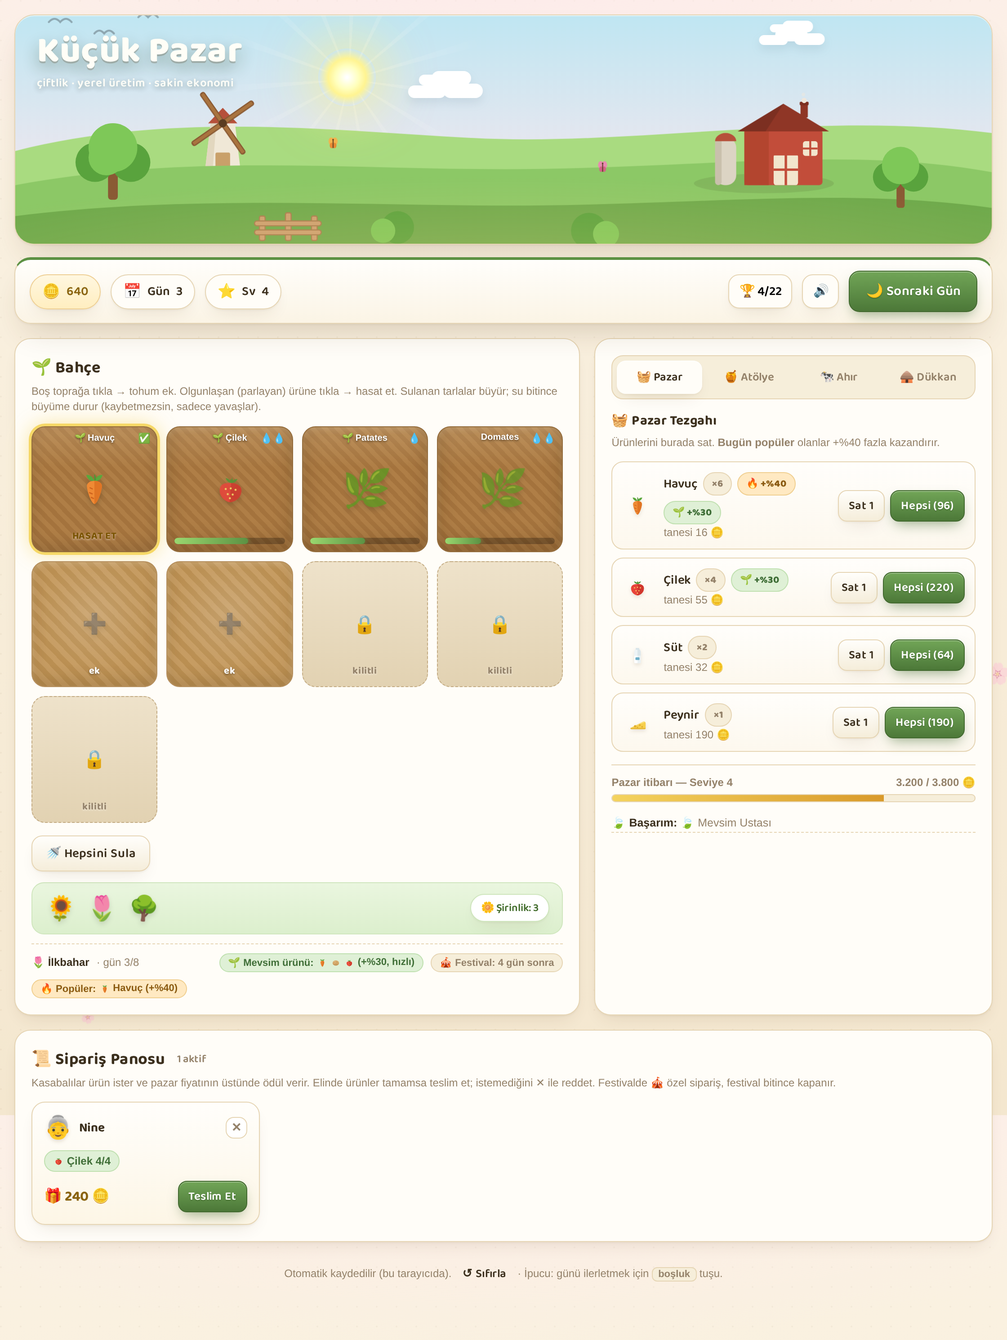
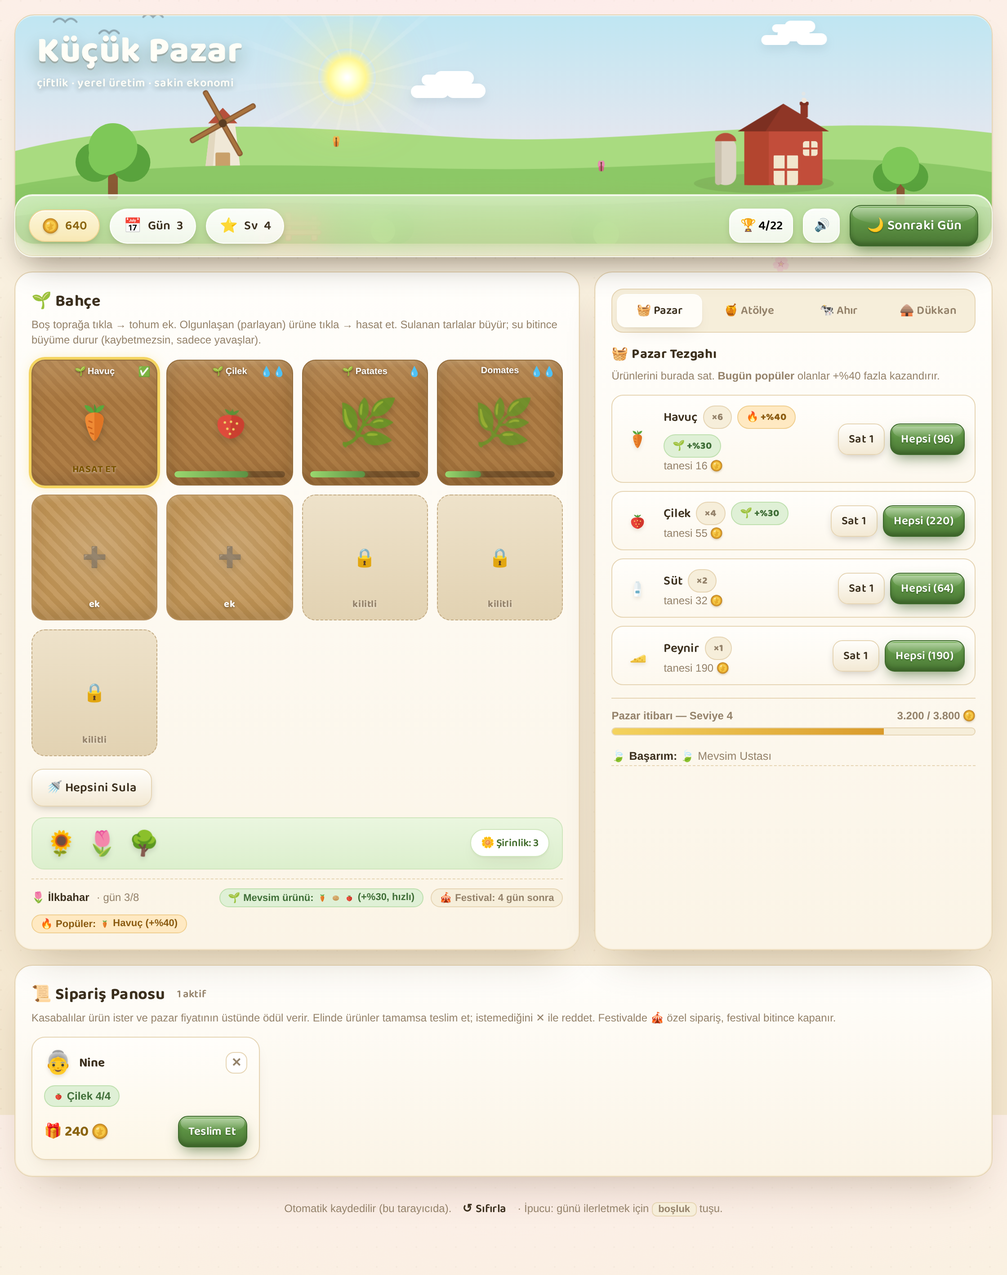
Premium game-UI pass: glass HUD, glossy buttons, gold coin, richer panels
Move the interface away from a web-layout feel toward a premium casual-game HUD:
- The control bar becomes a glassmorphism HUD that floats over the hero scene
  (negative margin overlap + backdrop-blur/saturate), so the blurred landscape
  shows through; gold hairline trim and glossy stat pods.
- Buttons get a glossy 3D "candy" treatment: top-gloss highlight (primary::before),
  layered inner/outer shadows, and a springy press (cubic-bezier overshoot).
- Panels become dimensional plaques with a faint gold inset hairline and deeper
  layered shadow.
- Handcrafted gold-coin SVG replaces the coin emoji in the always-visible spots
  (HUD balance, market prices, order rewards, level bar).

Pure presentation (one textContent→innerHTML change for the level readout).
Verified with Playwright: both builds render with no console errors; full
gameplay regression re-passed.

Claude-Session: https://claude.ai/code/session_01JLhaX9PDeoKavNPVgfyLYf

Changed region(s): [[0.0, 0.0, 1.0, 0.6206], [0.0, 0.5585, 1.0, 0.9619], [0.75, 0.0, 0.8125, 0.031]]

diff --git a/cozy-farm-market/index.html b/cozy-farm-market/index.html
@@ -64,7 +64,7 @@
 
   /* ===== Pastoral hero scene ===== */
   .hero{
-    position:relative; height:256px; margin-bottom:14px;
+    position:relative; height:256px; margin-bottom:0;
     border-radius:22px; overflow:hidden;
     background:linear-gradient(180deg, var(--sky1) 0%, var(--sky2) 82%);
     border:1px solid var(--line);
@@ -137,13 +137,13 @@
   /* Top bar */
   .top{
     display:flex; align-items:center; gap:11px; flex-wrap:wrap;
-    background:linear-gradient(180deg,#fffefb,#fbf4e5);
-    border:1px solid var(--line);
-    border-top:3px solid var(--green);
-    border-radius:var(--r);
-    box-shadow:inset 0 1px 0 rgba(255,255,255,.7), var(--shadow);
-    padding:12px 16px;
-    position:sticky; top:10px; z-index:20;
+    background:linear-gradient(180deg, rgba(255,255,255,.6), rgba(255,251,242,.46));
+    -webkit-backdrop-filter:blur(18px) saturate(1.5); backdrop-filter:blur(18px) saturate(1.5);
+    border:1px solid rgba(255,255,255,.7);
+    border-radius:20px;
+    box-shadow:0 16px 36px -12px rgba(38,26,8,.42), inset 0 1px 0 rgba(255,255,255,.85), inset 0 0 0 1px rgba(214,150,40,.12);
+    padding:11px 15px;
+    position:sticky; top:12px; z-index:30; margin-top:-56px;
   }
   .brand{ display:flex; align-items:center; gap:11px; margin-right:6px; }
   .brand .logo{ font-size:30px; filter:drop-shadow(0 2px 2px rgba(70,45,10,.16)); }
@@ -152,43 +152,48 @@
   .grow{ flex:1; }
   .stat{
     display:flex; align-items:center; gap:7px;
-    background:var(--card);
-    border:1px solid var(--line);
+    background:linear-gradient(180deg, rgba(255,255,255,.94), rgba(255,255,255,.8));
+    border:1px solid rgba(255,255,255,.9);
     border-radius:999px;
-    padding:6px 13px;
+    padding:6px 14px;
     font-family:var(--display); font-weight:600; font-size:14px; white-space:nowrap;
-    font-variant-numeric:tabular-nums;
-    box-shadow:var(--shadow2);
+    font-variant-numeric:tabular-nums; color:var(--ink);
+    box-shadow:0 3px 9px -3px rgba(38,26,8,.28), inset 0 1px 0 rgba(255,255,255,.95);
   }
-  .stat .ico{ font-size:16px; }
-  .stat.coins{ background:linear-gradient(180deg,#fff7e0,#ffeec0); border-color:#eecf94; color:#8a6410; }
-  .stat.coins.bump{ animation:coinbump .4s ease; }
-  @keyframes coinbump{ 0%,100%{transform:scale(1)} 40%{transform:scale(1.13)} }
+  .stat .ico{ font-size:16px; display:inline-flex; }
+  .stat.coins{ background:linear-gradient(180deg, rgba(255,247,222,.96), rgba(255,234,184,.9)); border-color:#f0d492; color:#8a6410; }
+  .stat.coins.bump{ animation:coinbump .4s cubic-bezier(.34,1.6,.64,1); }
+  @keyframes coinbump{ 0%,100%{transform:scale(1)} 40%{transform:scale(1.16)} }
   .iconbtn{
-    cursor:pointer; border:1px solid var(--line); background:var(--card);
-    border-radius:12px; padding:7px 11px; font-family:var(--display); font-weight:600; font-size:14px; white-space:nowrap;
-    box-shadow:var(--shadow2); transition:transform .05s ease, filter .15s ease;
+    cursor:pointer; border:1px solid rgba(255,255,255,.9);
+    background:linear-gradient(180deg, rgba(255,255,255,.94), rgba(255,255,255,.8));
+    border-radius:13px; padding:7px 11px; font-family:var(--display); font-weight:600; font-size:14px; white-space:nowrap;
+    box-shadow:0 3px 9px -3px rgba(38,26,8,.28), inset 0 1px 0 rgba(255,255,255,.95);
+    transition:transform .08s cubic-bezier(.34,1.6,.64,1), filter .15s ease;
   }
-  .iconbtn:hover{ filter:brightness(1.03); }
-  .iconbtn:active{ transform:translateY(1px); }
+  .iconbtn:hover{ filter:brightness(1.04); }
+  .iconbtn:active{ transform:translateY(1px) scale(.96); }
   .btn{
-    cursor:pointer; border:1px solid var(--line);
-    background:linear-gradient(180deg,#fffefb,#f5edda); color:var(--ink);
-    border-radius:12px; padding:8px 15px; font-family:var(--display); font-weight:600; font-size:14px; letter-spacing:.2px;
-    box-shadow:inset 0 1px 0 rgba(255,255,255,.65), var(--shadow2);
-    transition:transform .05s ease, filter .15s ease, background .15s ease;
+    cursor:pointer; position:relative; border:1px solid var(--line);
+    background:linear-gradient(180deg,#fffefb,#f3e9d4); color:var(--ink);
+    border-radius:13px; padding:9px 16px; font-family:var(--display); font-weight:600; font-size:14px; letter-spacing:.2px;
+    box-shadow:inset 0 1px 0 rgba(255,255,255,.85), 0 4px 10px -4px rgba(38,26,8,.3);
+    transition:transform .09s cubic-bezier(.34,1.7,.5,1), filter .15s ease, box-shadow .15s ease;
   }
   .btn:hover{ filter:brightness(1.03); }
-  .btn:active{ transform:translateY(1px); }
+  .btn:active{ transform:translateY(2px) scale(.96); }
   .btn.primary{
-    background:linear-gradient(180deg,#71a557,#4c7838); border:1px solid var(--green-d); color:#fff;
-    text-shadow:0 1px 1px rgba(30,50,15,.28);
-    box-shadow:inset 0 1px 0 rgba(255,255,255,.28), 0 7px 15px -5px rgba(66,105,47,.55);
+    background:linear-gradient(180deg,#7cb35f 0%,#5c9143 46%,#4a7734 100%);
+    border:1px solid #3e6a2c; color:#fff; text-shadow:0 1px 1px rgba(20,40,10,.4);
+    box-shadow:0 7px 16px -5px rgba(58,96,38,.7), inset 0 1px 0 rgba(255,255,255,.45), inset 0 -3px 4px rgba(28,52,14,.32);
   }
-  .btn.primary:hover{ filter:brightness(1.05); }
+  .btn.primary::before{ content:""; position:absolute; left:2px; right:2px; top:2px; height:44%; border-radius:11px 11px 60% 60%/11px 11px 22px 22px; background:linear-gradient(180deg, rgba(255,255,255,.42), rgba(255,255,255,0)); pointer-events:none; }
+  .btn.primary:hover{ filter:brightness(1.06); box-shadow:0 9px 20px -5px rgba(58,96,38,.8), inset 0 1px 0 rgba(255,255,255,.5), 0 0 0 3px rgba(120,180,90,.25); }
+  .btn.primary:active{ transform:translateY(2px) scale(.96); box-shadow:0 3px 8px -3px rgba(58,96,38,.6), inset 0 2px 4px rgba(28,52,14,.4); }
   .btn.day{ font-size:15px; padding:10px 18px; }
-  .btn.small{ padding:6px 11px; font-size:13px; border-radius:10px; }
+  .btn.small{ padding:6px 11px; font-size:13px; border-radius:11px; }
   .btn:disabled{ opacity:.42; cursor:not-allowed; box-shadow:none; }
+  .btn:disabled::before{ display:none; }
   .btn.ghost{ background:transparent; box-shadow:none; border-color:transparent; }
   .btn.ghost:hover{ background:var(--soft); }
 
@@ -197,10 +202,10 @@
   @media (max-width: 900px){ .layout{ grid-template-columns:1fr; } .top{ position:static; } }
 
   .panel{
-    background:var(--card);
+    background:linear-gradient(180deg,#fffefb,#fbf4e6);
     border:1px solid var(--line);
-    border-radius:var(--r);
-    box-shadow:inset 0 1px 0 rgba(255,255,255,.7), var(--shadow2);
+    border-radius:20px;
+    box-shadow:0 22px 46px -22px rgba(78,52,16,.32), inset 0 1px 0 rgba(255,255,255,.92), inset 0 0 0 1px rgba(214,150,40,.07);
     padding:18px;
   }
   .panel h2{ font-family:var(--display); margin:0 0 4px; font-size:18px; font-weight:700; letter-spacing:.2px; display:flex; align-items:center; gap:8px; }
@@ -248,6 +253,7 @@
   .plot .emoji.sway{ animation:sway 3.6s ease-in-out infinite; transform-origin:50% 90%; }
   .plot.empty .emoji{ font-size:22px; opacity:.5; }
   .pico{ width:1em; height:1em; display:inline-block; vertical-align:-.15em; flex:none; }
+  .coin{ width:1.15em; height:1.15em; display:inline-block; vertical-align:-.24em; filter:drop-shadow(0 1px 1px rgba(120,80,10,.3)); }
   .plot .cropname{ position:absolute; top:6px; left:0; right:0; text-align:center; font-size:10px; font-weight:800; color:#fff; text-shadow:0 1px 2px rgba(0,0,0,.5); }
   .plot .water{ position:absolute; top:6px; right:7px; font-size:11px; }
   .plot .bar{ position:absolute; left:8px; right:8px; bottom:8px; height:7px; background:rgba(0,0,0,.25); border-radius:999px; overflow:hidden; }
@@ -486,7 +492,7 @@
   </div>
 
   <div class="top">
-    <div class="stat coins" id="coinStat"><span class="ico">🪙</span><span id="coins">0</span></div>
+    <div class="stat coins" id="coinStat"><span class="ico"><svg class="coin" viewBox="0 0 24 24" aria-hidden="true"><circle cx="12" cy="12" r="10.5" fill="#d99a2b"/><circle cx="12" cy="12" r="10.5" fill="none" stroke="#b87f1e" stroke-width="1"/><circle cx="12" cy="12" r="8" fill="#f6c948"/><circle cx="12" cy="12" r="8" fill="none" stroke="#e6ad2e" stroke-width="1"/><path d="M12 6.6l1.5 3.4 3.7.35-2.8 2.5.85 3.65L12 18l-3.2 1.95.85-3.65-2.8-2.5 3.7-.35z" fill="#e6ad2e"/><ellipse cx="8.6" cy="8.2" rx="2.4" ry="1.5" fill="#fff" opacity=".45" transform="rotate(-32 8.6 8.2)"/></svg></span><span id="coins">0</span></div>
     <div class="stat"><span class="ico">📅</span>Gün <span id="day">1</span></div>
     <div class="stat"><span class="ico">⭐</span>Sv <span id="level">1</span></div>
     <div class="grow"></div>
@@ -629,6 +635,7 @@
    scarf:`<path d="M13 13c0-2.6 3-4.6 7-4.6s7 2 7 4.6v2.4c0-2.6-3-4.1-7-4.1s-7 1.5-7 4.1z" fill="#c94f6a"/><rect x="13" y="13" width="5.4" height="19" rx="1.7" fill="#b23a5a"/><rect x="21.6" y="13" width="5.4" height="16" rx="1.7" fill="#c94f6a"/><g stroke="#9c2f4c" stroke-width=".9" opacity=".4" stroke-linecap="round"><path d="M13.6 18h4.2M13.6 22h4.2M13.6 26h4.2M22.2 18h4.2M22.2 22.5h4.2"/></g><g fill="#e79db0"><rect x="13.4" y="31.6" width="1.4" height="3" rx=".7"/><rect x="15.7" y="31.6" width="1.4" height="3" rx=".7"/><rect x="22" y="28.6" width="1.4" height="3" rx=".7"/><rect x="24.3" y="28.6" width="1.4" height="3" rx=".7"/></g>`,
   };
   function iconHTML(id){ return SVGICON[id] ? '<svg class="pico" viewBox="0 0 40 40" aria-hidden="true">'+SVGICON[id]+'</svg>' : itemEmoji(id); }
+  const COIN = '<svg class="coin" viewBox="0 0 24 24" aria-hidden="true"><circle cx="12" cy="12" r="10.5" fill="#d99a2b"/><circle cx="12" cy="12" r="10.5" fill="none" stroke="#b87f1e" stroke-width="1"/><circle cx="12" cy="12" r="8" fill="#f6c948"/><circle cx="12" cy="12" r="8" fill="none" stroke="#e6ad2e" stroke-width="1"/><path d="M12 6.6l1.5 3.4 3.7.35-2.8 2.5.85 3.65L12 18l-3.2 1.95.85-3.65-2.8-2.5 3.7-.35z" fill="#e6ad2e"/><ellipse cx="8.6" cy="8.2" rx="2.4" ry="1.5" fill="#fff" opacity=".45" transform="rotate(-32 8.6 8.2)"/></svg>';
 
   const SEASONS = [
     { name:"İlkbahar", emoji:"🌷", p:"🌸" },
@@ -1273,7 +1280,7 @@
         '<span class="oname">'+o.cust.name+'</span>'+festBadge+
         '<button class="odismiss" data-oact="dismiss" data-oid="'+o.id+'" title="Reddet" aria-label="Reddet">✕</button></div>'+
         '<div class="oitems">'+items+'</div>'+
-        '<div class="ofoot"><span class="oreward">🎁 '+fmt(o.reward)+' 🪙</span>'+
+        '<div class="ofoot"><span class="oreward">🎁 '+fmt(o.reward)+' '+COIN+'</span>'+
         '<button class="btn small primary" data-oact="fill" data-oid="'+o.id+'" '+(can?"":"disabled")+'>Teslim Et</button></div></div>';
     }).join("");
     if(!S.orders.length) cards = '<div class="emptxt">Şu an sipariş yok. Yeni müşteriler zamanla uğrar — günü ilerlet 📜</div>';
@@ -1328,7 +1335,7 @@
     else{
       const pct = Math.max(0,Math.min(100, (S.totalEarned-cur)/(nxt-cur)*100));
       $("lvlFill").style.width = pct+"%";
-      $("lvlText").textContent = fmt(S.totalEarned)+" / "+fmt(nxt)+" 🪙";
+      $("lvlText").innerHTML = fmt(S.totalEarned)+" / "+fmt(nxt)+" "+COIN;
     }
   }
 
@@ -1371,7 +1378,7 @@
     const festChip = festivalActive() ? '<span class="chip fest">🎪 +%50</span>' : "";
     return '<div class="row"><div class="rico">'+iconHTML(id)+'</div>'+
       '<div class="rmain"><div class="rtitle">'+itemName(id)+' <span class="chip qty">×'+have+'</span> '+pop+seasonChip+festChip+'</div>'+
-      '<div class="rmeta">tanesi '+fmt(unit)+' 🪙</div></div>'+
+      '<div class="rmeta">tanesi '+fmt(unit)+' '+COIN+'</div></div>'+
       '<div class="ract">'+
         '<button class="btn small" data-act="sell1" data-id="'+id+'">Sat 1</button>'+
         '<button class="btn small primary" data-act="sellAll" data-id="'+id+'">Hepsi ('+fmt(unit*have)+')</button>'+

diff --git a/cozy-farm-market/sandbox.html b/cozy-farm-market/sandbox.html
@@ -64,7 +64,7 @@
 
   /* ===== Pastoral hero scene ===== */
   .hero{
-    position:relative; height:256px; margin-bottom:14px;
+    position:relative; height:256px; margin-bottom:0;
     border-radius:22px; overflow:hidden;
     background:linear-gradient(180deg, var(--sky1) 0%, var(--sky2) 82%);
     border:1px solid var(--line);
@@ -137,13 +137,13 @@
   /* Top bar */
   .top{
     display:flex; align-items:center; gap:11px; flex-wrap:wrap;
-    background:linear-gradient(180deg,#fffefb,#fbf4e5);
-    border:1px solid var(--line);
-    border-top:3px solid var(--green);
-    border-radius:var(--r);
-    box-shadow:inset 0 1px 0 rgba(255,255,255,.7), var(--shadow);
-    padding:12px 16px;
-    position:sticky; top:10px; z-index:20;
+    background:linear-gradient(180deg, rgba(255,255,255,.6), rgba(255,251,242,.46));
+    -webkit-backdrop-filter:blur(18px) saturate(1.5); backdrop-filter:blur(18px) saturate(1.5);
+    border:1px solid rgba(255,255,255,.7);
+    border-radius:20px;
+    box-shadow:0 16px 36px -12px rgba(38,26,8,.42), inset 0 1px 0 rgba(255,255,255,.85), inset 0 0 0 1px rgba(214,150,40,.12);
+    padding:11px 15px;
+    position:sticky; top:12px; z-index:30; margin-top:-56px;
   }
   .brand{ display:flex; align-items:center; gap:11px; margin-right:6px; }
   .brand .logo{ font-size:30px; filter:drop-shadow(0 2px 2px rgba(70,45,10,.16)); }
@@ -152,43 +152,48 @@
   .grow{ flex:1; }
   .stat{
     display:flex; align-items:center; gap:7px;
-    background:var(--card);
-    border:1px solid var(--line);
+    background:linear-gradient(180deg, rgba(255,255,255,.94), rgba(255,255,255,.8));
+    border:1px solid rgba(255,255,255,.9);
     border-radius:999px;
-    padding:6px 13px;
+    padding:6px 14px;
     font-family:var(--display); font-weight:600; font-size:14px; white-space:nowrap;
-    font-variant-numeric:tabular-nums;
-    box-shadow:var(--shadow2);
+    font-variant-numeric:tabular-nums; color:var(--ink);
+    box-shadow:0 3px 9px -3px rgba(38,26,8,.28), inset 0 1px 0 rgba(255,255,255,.95);
   }
-  .stat .ico{ font-size:16px; }
-  .stat.coins{ background:linear-gradient(180deg,#fff7e0,#ffeec0); border-color:#eecf94; color:#8a6410; }
-  .stat.coins.bump{ animation:coinbump .4s ease; }
-  @keyframes coinbump{ 0%,100%{transform:scale(1)} 40%{transform:scale(1.13)} }
+  .stat .ico{ font-size:16px; display:inline-flex; }
+  .stat.coins{ background:linear-gradient(180deg, rgba(255,247,222,.96), rgba(255,234,184,.9)); border-color:#f0d492; color:#8a6410; }
+  .stat.coins.bump{ animation:coinbump .4s cubic-bezier(.34,1.6,.64,1); }
+  @keyframes coinbump{ 0%,100%{transform:scale(1)} 40%{transform:scale(1.16)} }
   .iconbtn{
-    cursor:pointer; border:1px solid var(--line); background:var(--card);
-    border-radius:12px; padding:7px 11px; font-family:var(--display); font-weight:600; font-size:14px; white-space:nowrap;
-    box-shadow:var(--shadow2); transition:transform .05s ease, filter .15s ease;
+    cursor:pointer; border:1px solid rgba(255,255,255,.9);
+    background:linear-gradient(180deg, rgba(255,255,255,.94), rgba(255,255,255,.8));
+    border-radius:13px; padding:7px 11px; font-family:var(--display); font-weight:600; font-size:14px; white-space:nowrap;
+    box-shadow:0 3px 9px -3px rgba(38,26,8,.28), inset 0 1px 0 rgba(255,255,255,.95);
+    transition:transform .08s cubic-bezier(.34,1.6,.64,1), filter .15s ease;
   }
-  .iconbtn:hover{ filter:brightness(1.03); }
-  .iconbtn:active{ transform:translateY(1px); }
+  .iconbtn:hover{ filter:brightness(1.04); }
+  .iconbtn:active{ transform:translateY(1px) scale(.96); }
   .btn{
-    cursor:pointer; border:1px solid var(--line);
-    background:linear-gradient(180deg,#fffefb,#f5edda); color:var(--ink);
-    border-radius:12px; padding:8px 15px; font-family:var(--display); font-weight:600; font-size:14px; letter-spacing:.2px;
-    box-shadow:inset 0 1px 0 rgba(255,255,255,.65), var(--shadow2);
-    transition:transform .05s ease, filter .15s ease, background .15s ease;
+    cursor:pointer; position:relative; border:1px solid var(--line);
+    background:linear-gradient(180deg,#fffefb,#f3e9d4); color:var(--ink);
+    border-radius:13px; padding:9px 16px; font-family:var(--display); font-weight:600; font-size:14px; letter-spacing:.2px;
+    box-shadow:inset 0 1px 0 rgba(255,255,255,.85), 0 4px 10px -4px rgba(38,26,8,.3);
+    transition:transform .09s cubic-bezier(.34,1.7,.5,1), filter .15s ease, box-shadow .15s ease;
   }
   .btn:hover{ filter:brightness(1.03); }
-  .btn:active{ transform:translateY(1px); }
+  .btn:active{ transform:translateY(2px) scale(.96); }
   .btn.primary{
-    background:linear-gradient(180deg,#71a557,#4c7838); border:1px solid var(--green-d); color:#fff;
-    text-shadow:0 1px 1px rgba(30,50,15,.28);
-    box-shadow:inset 0 1px 0 rgba(255,255,255,.28), 0 7px 15px -5px rgba(66,105,47,.55);
+    background:linear-gradient(180deg,#7cb35f 0%,#5c9143 46%,#4a7734 100%);
+    border:1px solid #3e6a2c; color:#fff; text-shadow:0 1px 1px rgba(20,40,10,.4);
+    box-shadow:0 7px 16px -5px rgba(58,96,38,.7), inset 0 1px 0 rgba(255,255,255,.45), inset 0 -3px 4px rgba(28,52,14,.32);
   }
-  .btn.primary:hover{ filter:brightness(1.05); }
+  .btn.primary::before{ content:""; position:absolute; left:2px; right:2px; top:2px; height:44%; border-radius:11px 11px 60% 60%/11px 11px 22px 22px; background:linear-gradient(180deg, rgba(255,255,255,.42), rgba(255,255,255,0)); pointer-events:none; }
+  .btn.primary:hover{ filter:brightness(1.06); box-shadow:0 9px 20px -5px rgba(58,96,38,.8), inset 0 1px 0 rgba(255,255,255,.5), 0 0 0 3px rgba(120,180,90,.25); }
+  .btn.primary:active{ transform:translateY(2px) scale(.96); box-shadow:0 3px 8px -3px rgba(58,96,38,.6), inset 0 2px 4px rgba(28,52,14,.4); }
   .btn.day{ font-size:15px; padding:10px 18px; }
-  .btn.small{ padding:6px 11px; font-size:13px; border-radius:10px; }
+  .btn.small{ padding:6px 11px; font-size:13px; border-radius:11px; }
   .btn:disabled{ opacity:.42; cursor:not-allowed; box-shadow:none; }
+  .btn:disabled::before{ display:none; }
   .btn.ghost{ background:transparent; box-shadow:none; border-color:transparent; }
   .btn.ghost:hover{ background:var(--soft); }
 
@@ -197,10 +202,10 @@
   @media (max-width: 900px){ .layout{ grid-template-columns:1fr; } .top{ position:static; } }
 
   .panel{
-    background:var(--card);
+    background:linear-gradient(180deg,#fffefb,#fbf4e6);
     border:1px solid var(--line);
-    border-radius:var(--r);
-    box-shadow:inset 0 1px 0 rgba(255,255,255,.7), var(--shadow2);
+    border-radius:20px;
+    box-shadow:0 22px 46px -22px rgba(78,52,16,.32), inset 0 1px 0 rgba(255,255,255,.92), inset 0 0 0 1px rgba(214,150,40,.07);
     padding:18px;
   }
   .panel h2{ font-family:var(--display); margin:0 0 4px; font-size:18px; font-weight:700; letter-spacing:.2px; display:flex; align-items:center; gap:8px; }
@@ -248,6 +253,7 @@
   .plot .emoji.sway{ animation:sway 3.6s ease-in-out infinite; transform-origin:50% 90%; }
   .plot.empty .emoji{ font-size:22px; opacity:.5; }
   .pico{ width:1em; height:1em; display:inline-block; vertical-align:-.15em; flex:none; }
+  .coin{ width:1.15em; height:1.15em; display:inline-block; vertical-align:-.24em; filter:drop-shadow(0 1px 1px rgba(120,80,10,.3)); }
   .plot .cropname{ position:absolute; top:6px; left:0; right:0; text-align:center; font-size:10px; font-weight:800; color:#fff; text-shadow:0 1px 2px rgba(0,0,0,.5); }
   .plot .water{ position:absolute; top:6px; right:7px; font-size:11px; }
   .plot .bar{ position:absolute; left:8px; right:8px; bottom:8px; height:7px; background:rgba(0,0,0,.25); border-radius:999px; overflow:hidden; }
@@ -486,7 +492,7 @@
   </div>
 
   <div class="top">
-    <div class="stat coins" id="coinStat"><span class="ico">🪙</span><span id="coins">0</span></div>
+    <div class="stat coins" id="coinStat"><span class="ico"><svg class="coin" viewBox="0 0 24 24" aria-hidden="true"><circle cx="12" cy="12" r="10.5" fill="#d99a2b"/><circle cx="12" cy="12" r="10.5" fill="none" stroke="#b87f1e" stroke-width="1"/><circle cx="12" cy="12" r="8" fill="#f6c948"/><circle cx="12" cy="12" r="8" fill="none" stroke="#e6ad2e" stroke-width="1"/><path d="M12 6.6l1.5 3.4 3.7.35-2.8 2.5.85 3.65L12 18l-3.2 1.95.85-3.65-2.8-2.5 3.7-.35z" fill="#e6ad2e"/><ellipse cx="8.6" cy="8.2" rx="2.4" ry="1.5" fill="#fff" opacity=".45" transform="rotate(-32 8.6 8.2)"/></svg></span><span id="coins">0</span></div>
     <div class="stat"><span class="ico">📅</span>Gün <span id="day">1</span></div>
     <div class="stat"><span class="ico">⭐</span>Sv <span id="level">1</span></div>
     <div class="grow"></div>
@@ -629,6 +635,7 @@
    scarf:`<path d="M13 13c0-2.6 3-4.6 7-4.6s7 2 7 4.6v2.4c0-2.6-3-4.1-7-4.1s-7 1.5-7 4.1z" fill="#c94f6a"/><rect x="13" y="13" width="5.4" height="19" rx="1.7" fill="#b23a5a"/><rect x="21.6" y="13" width="5.4" height="16" rx="1.7" fill="#c94f6a"/><g stroke="#9c2f4c" stroke-width=".9" opacity=".4" stroke-linecap="round"><path d="M13.6 18h4.2M13.6 22h4.2M13.6 26h4.2M22.2 18h4.2M22.2 22.5h4.2"/></g><g fill="#e79db0"><rect x="13.4" y="31.6" width="1.4" height="3" rx=".7"/><rect x="15.7" y="31.6" width="1.4" height="3" rx=".7"/><rect x="22" y="28.6" width="1.4" height="3" rx=".7"/><rect x="24.3" y="28.6" width="1.4" height="3" rx=".7"/></g>`,
   };
   function iconHTML(id){ return SVGICON[id] ? '<svg class="pico" viewBox="0 0 40 40" aria-hidden="true">'+SVGICON[id]+'</svg>' : itemEmoji(id); }
+  const COIN = '<svg class="coin" viewBox="0 0 24 24" aria-hidden="true"><circle cx="12" cy="12" r="10.5" fill="#d99a2b"/><circle cx="12" cy="12" r="10.5" fill="none" stroke="#b87f1e" stroke-width="1"/><circle cx="12" cy="12" r="8" fill="#f6c948"/><circle cx="12" cy="12" r="8" fill="none" stroke="#e6ad2e" stroke-width="1"/><path d="M12 6.6l1.5 3.4 3.7.35-2.8 2.5.85 3.65L12 18l-3.2 1.95.85-3.65-2.8-2.5 3.7-.35z" fill="#e6ad2e"/><ellipse cx="8.6" cy="8.2" rx="2.4" ry="1.5" fill="#fff" opacity=".45" transform="rotate(-32 8.6 8.2)"/></svg>';
 
   const SEASONS = [
     { name:"İlkbahar", emoji:"🌷", p:"🌸" },
@@ -1289,7 +1296,7 @@
         '<span class="oname">'+o.cust.name+'</span>'+festBadge+
         '<button class="odismiss" data-oact="dismiss" data-oid="'+o.id+'" title="Reddet" aria-label="Reddet">✕</button></div>'+
         '<div class="oitems">'+items+'</div>'+
-        '<div class="ofoot"><span class="oreward">🎁 '+fmt(o.reward)+' 🪙</span>'+
+        '<div class="ofoot"><span class="oreward">🎁 '+fmt(o.reward)+' '+COIN+'</span>'+
         '<button class="btn small primary" data-oact="fill" data-oid="'+o.id+'" '+(can?"":"disabled")+'>Teslim Et</button></div></div>';
     }).join("");
     if(!S.orders.length) cards = '<div class="emptxt">Şu an sipariş yok. Yeni müşteriler zamanla uğrar — günü ilerlet 📜</div>';
@@ -1344,7 +1351,7 @@
     else{
       const pct = Math.max(0,Math.min(100, (S.totalEarned-cur)/(nxt-cur)*100));
       $("lvlFill").style.width = pct+"%";
-      $("lvlText").textContent = fmt(S.totalEarned)+" / "+fmt(nxt)+" 🪙";
+      $("lvlText").innerHTML = fmt(S.totalEarned)+" / "+fmt(nxt)+" "+COIN;
     }
   }
 
@@ -1387,7 +1394,7 @@
     const festChip = festivalActive() ? '<span class="chip fest">🎪 +%50</span>' : "";
     return '<div class="row"><div class="rico">'+iconHTML(id)+'</div>'+
       '<div class="rmain"><div class="rtitle">'+itemName(id)+' <span class="chip qty">×'+have+'</span> '+pop+seasonChip+festChip+'</div>'+
-      '<div class="rmeta">tanesi '+fmt(unit)+' 🪙</div></div>'+
+      '<div class="rmeta">tanesi '+fmt(unit)+' '+COIN+'</div></div>'+
       '<div class="ract">'+
         '<button class="btn small" data-act="sell1" data-id="'+id+'">Sat 1</button>'+
         '<button class="btn small primary" data-act="sellAll" data-id="'+id+'">Hepsi ('+fmt(unit*have)+')</button>'+

diff --git a/cozy-farm-market/README.md b/cozy-farm-market/README.md
@@ -82,6 +82,11 @@ yayılan **volumetrik ışık huzmeleri** ve altın-saat parıltısı, döner ye
 duman tüten** kırmızı ahır + silo, ağaçlar, çit, süzülen bulutlar, uçan kuşlar ve uçuşan
 **kelebekler**. Festivalde manzaraya renkli **bayrak süslemeleri** ve pembe parıltı gelir.
 
+**Premium oyun arayüzü:** Üst kontrol çubuğu, manzaranın üstünde yüzen **cam efektli (glassmorphism)
+HUD**'a dönüşür — arkasındaki peyzaj bulanıklaşır (`backdrop-filter`), altın hairline ve glossy
+istatistik hapları ile. Butonlar **parlak/kabartmalı 3B** ("şeker buton") — üst parlaklık, derin
+gölge, yaylanan basış. Para, el işi **altın sikke** SVG'siyle gösterilir (emoji değil).
+
 Sıcak, cozy bir görsel kimlik: başlık/butonlar/rakamlar için gömülü **Baloo 2** (yuvarlak,
 karakterli display fontu — Türkçe alt kümesiyle base64 olarak gömülü, harici istek yok), gövde
 metni için sistem fontu. Yeşil aksanlı üst bar, katmanlı yumuşak gölgeler, sürülmüş toprak
